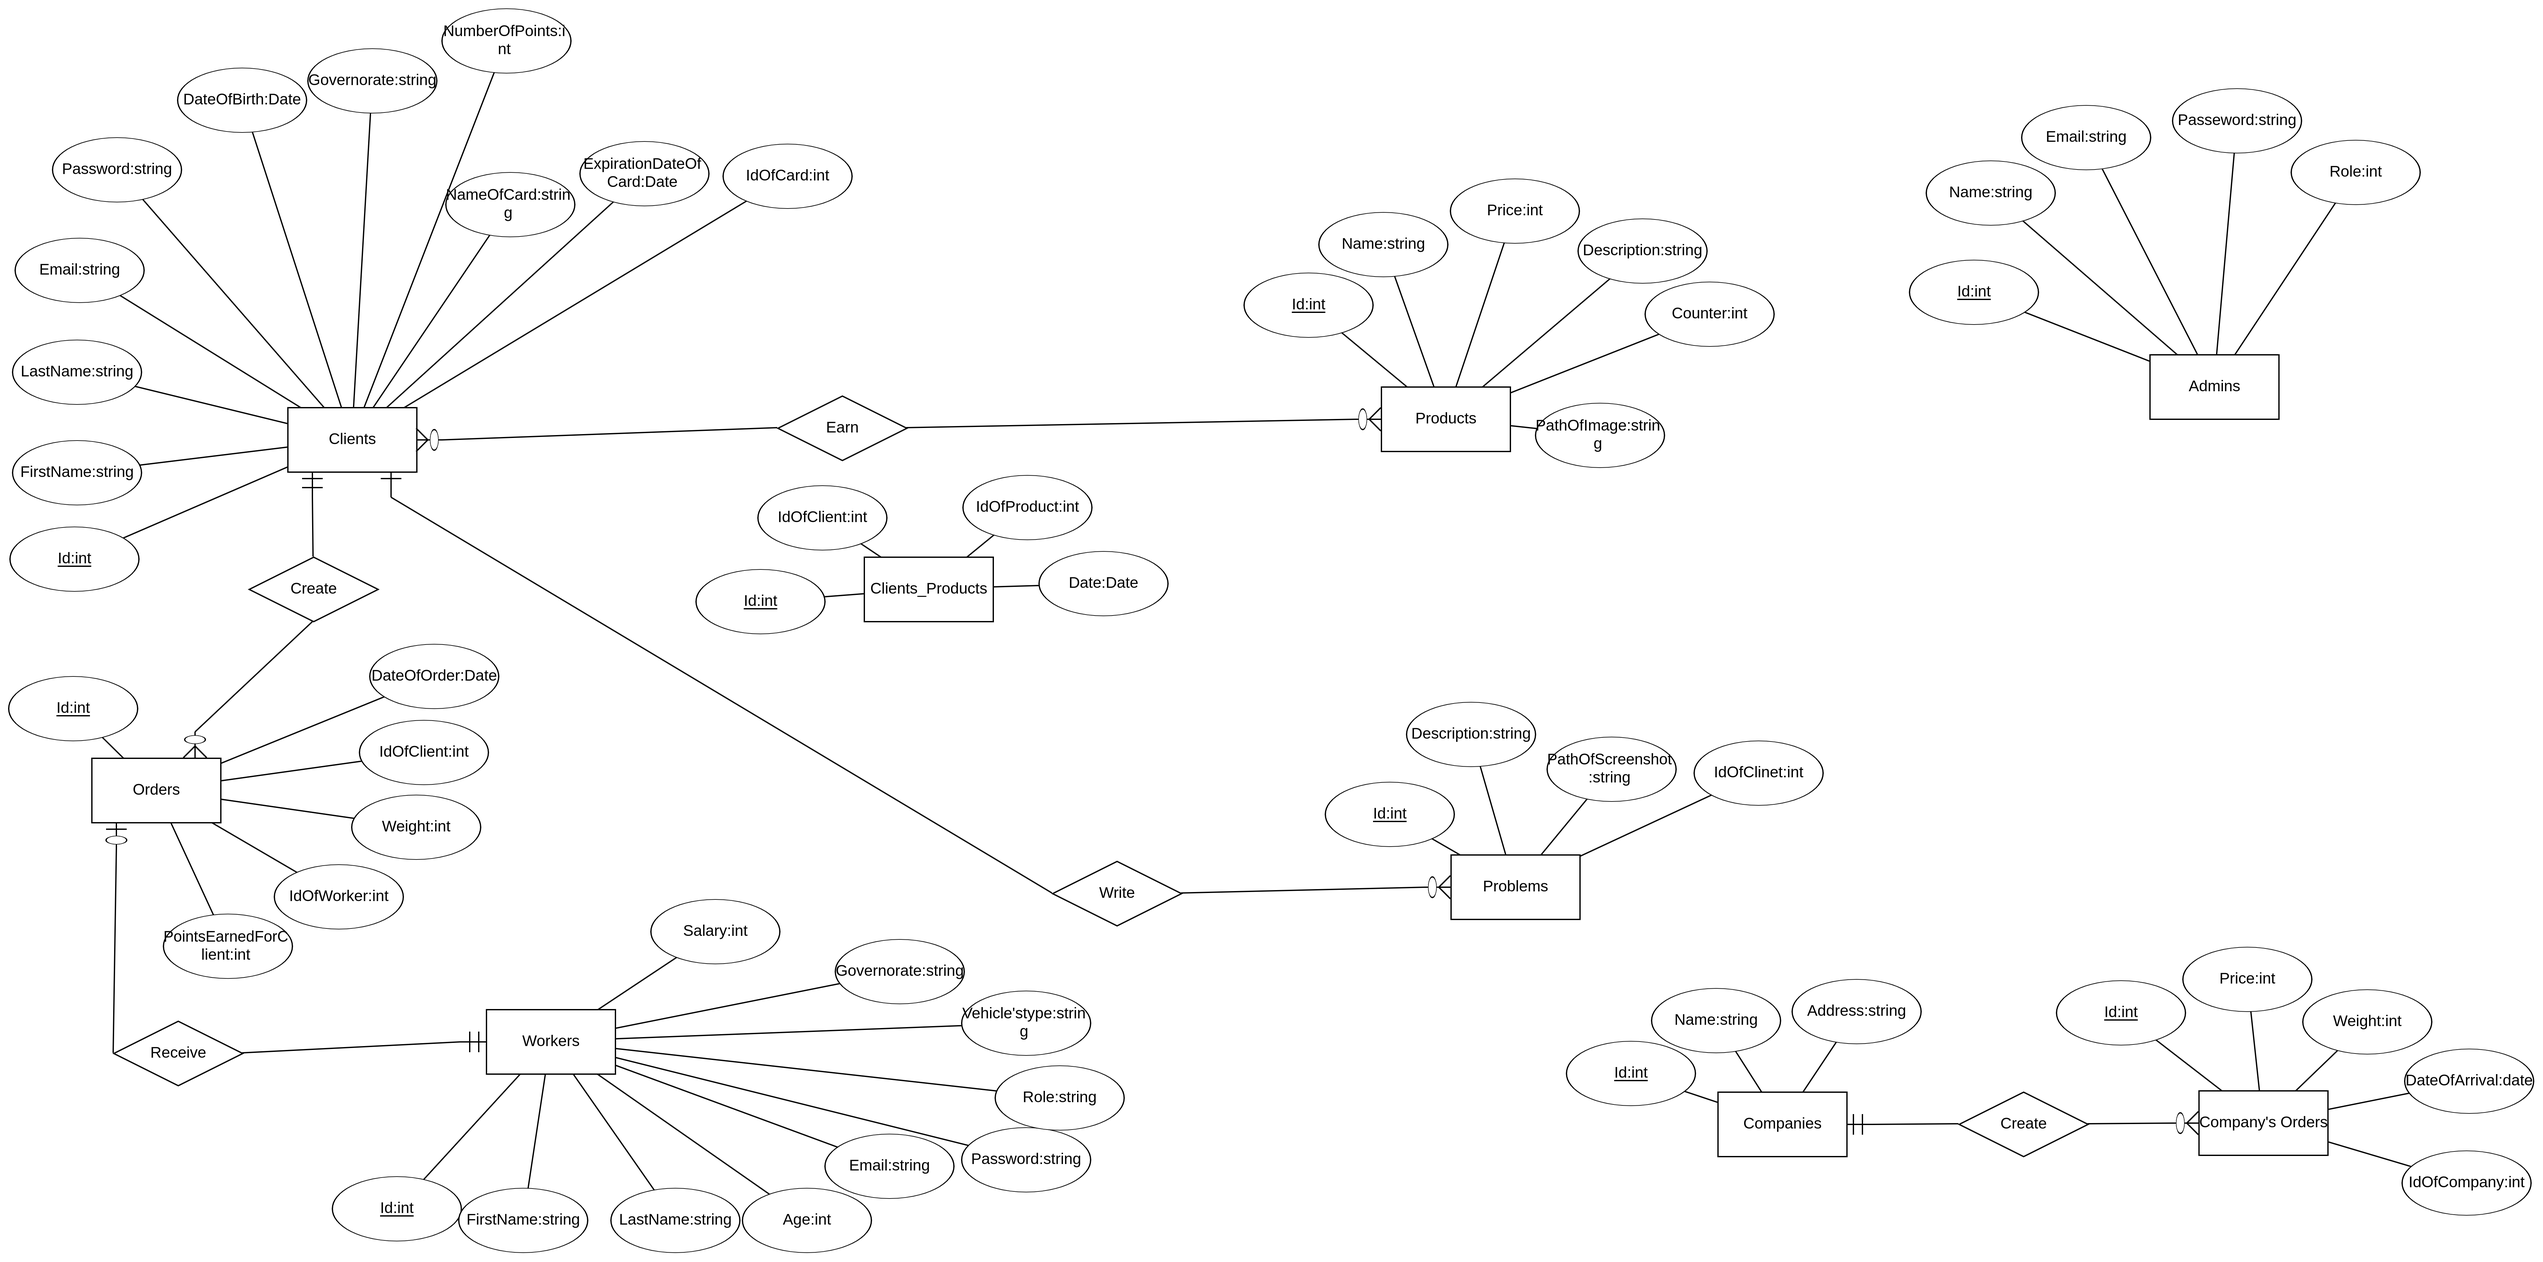
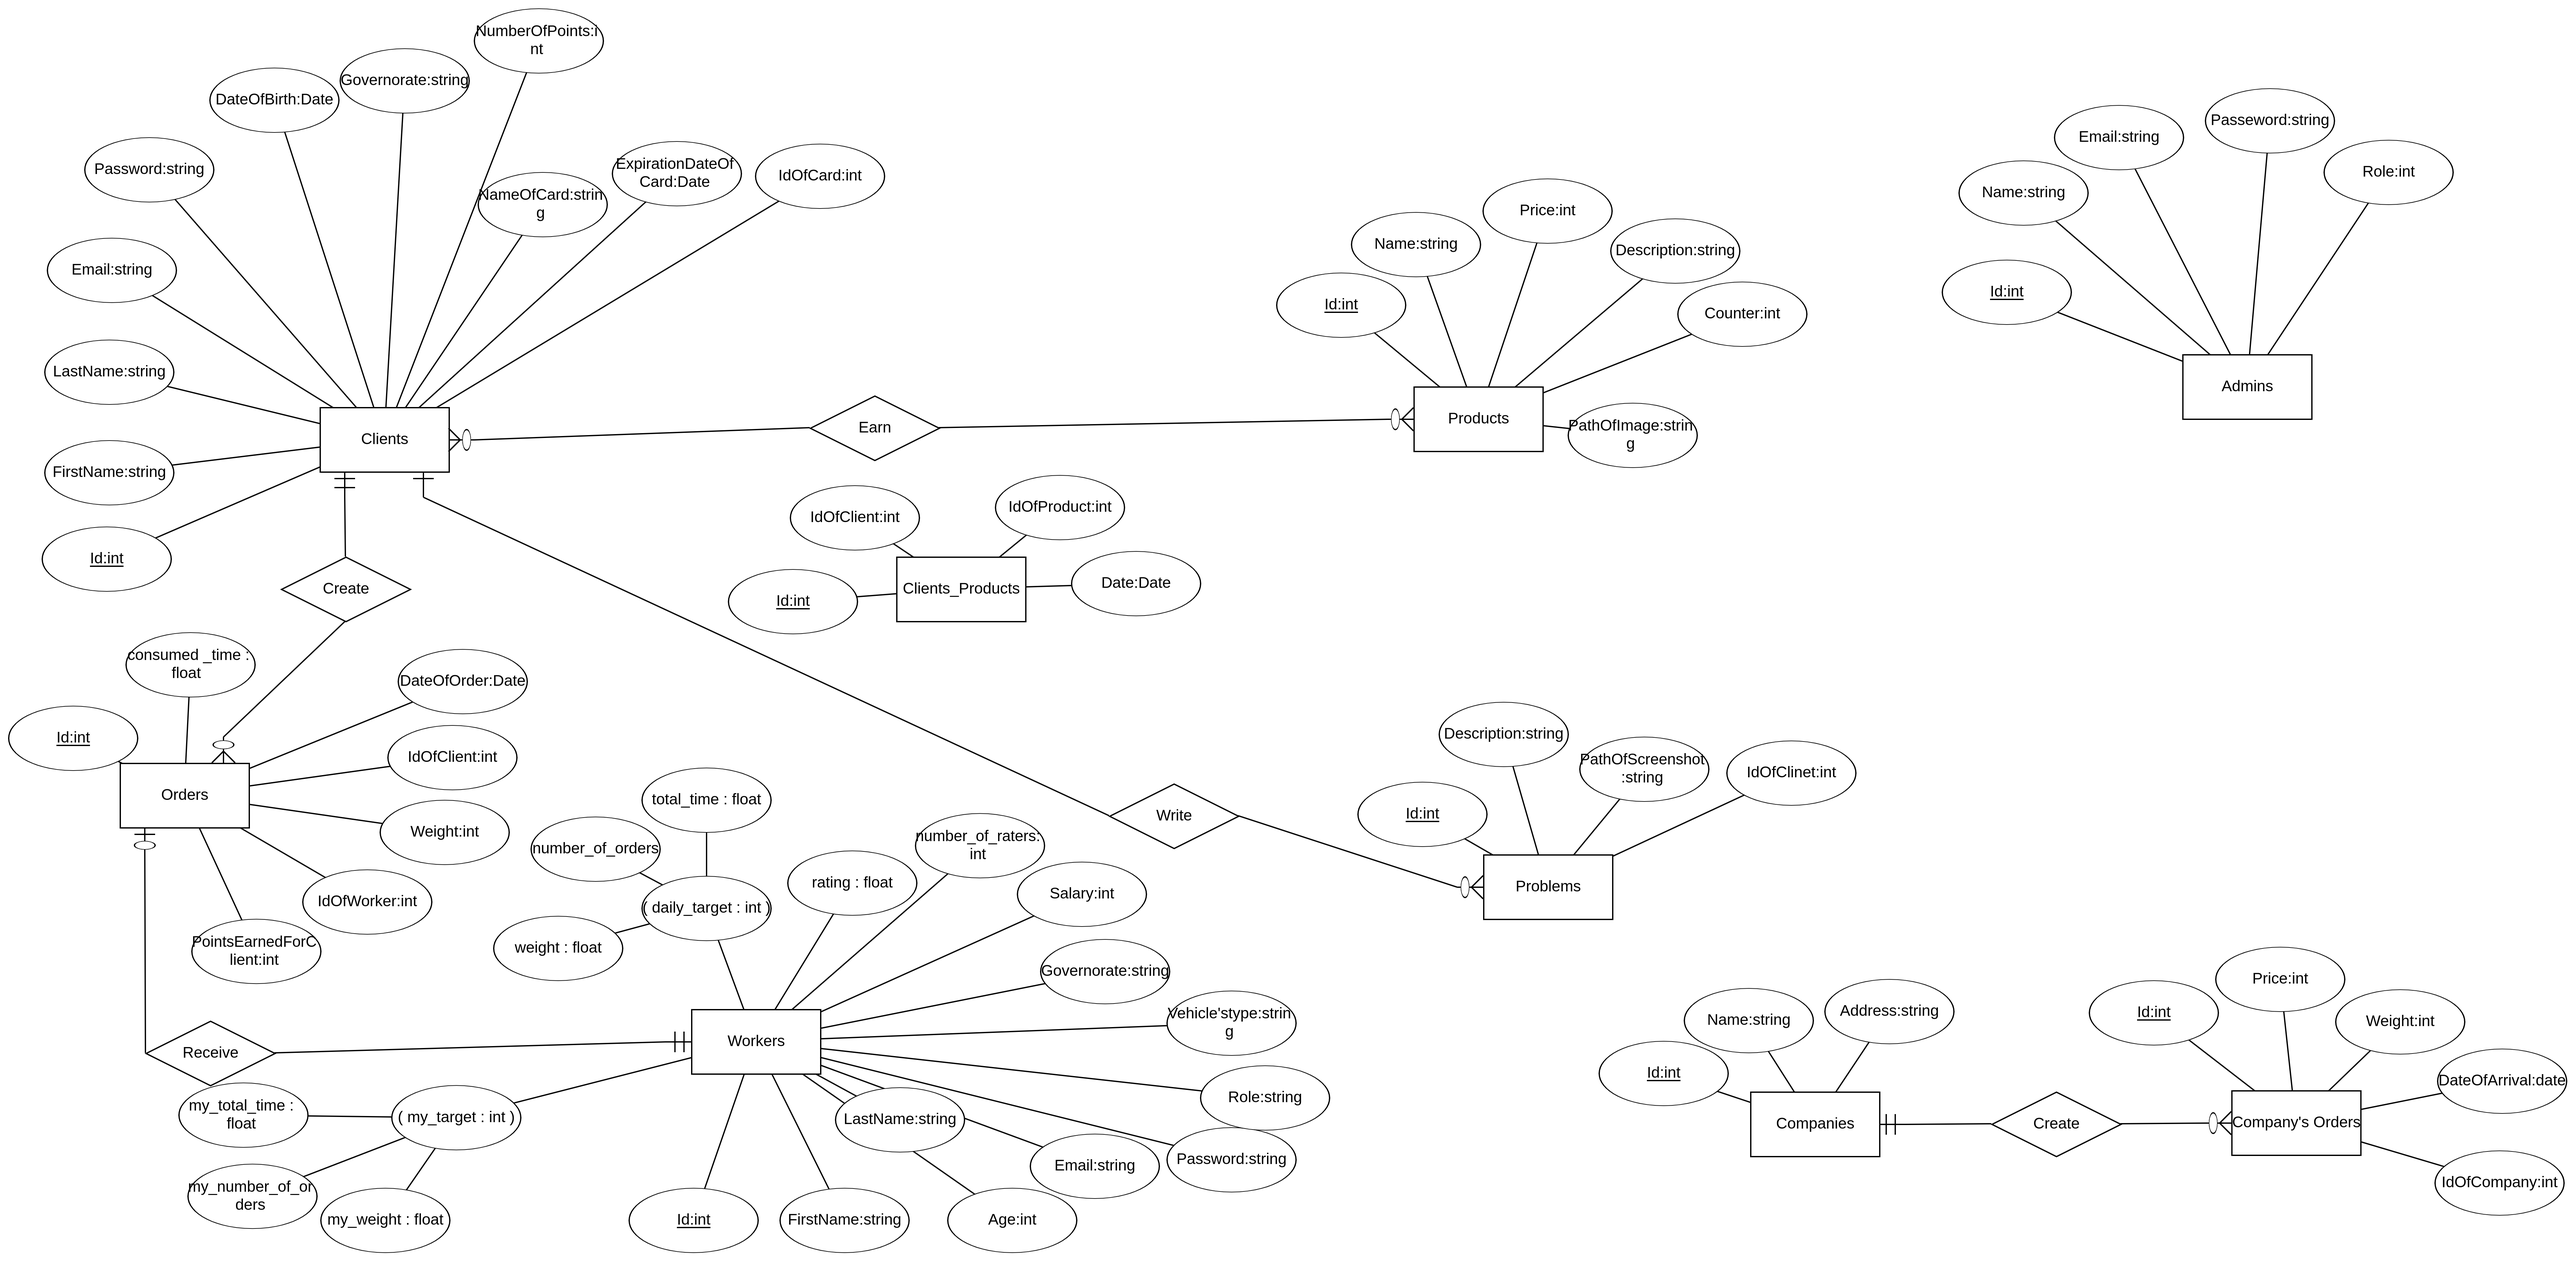
add daily target

diff --git a/app/Http/Controllers/CompanyController.php b/app/Http/Controllers/CompanyController.php
@@ -8,79 +8,51 @@ use Illuminate\Http\Response;
 
 class CompanyController extends Controller
 {
-    /**
-     * Display a listing of the resource.
-     *
-     * @return Response
-     */
-    public function index()
+    public function get_my_daily_target($id)
     {
-        //
+        /*
+         * take worker's id
+         * return myTime, myWeight and myNumberOfOrders as json
+         * note : myTime, myWeight and myNumberOfOrders are called the target of worker.
+         */
     }
 
-    /**
-     * Show the form for creating a new resource.
-     *
-     * @return Response
-     */
-    public function create()
-    {
-        //
-    }
+   public function set_remaining_daily_target_by_admin($id)
+   {
+       /*
+        * the purpose of this method is "updating the remaining daily target for the worker after each order"
+        * 1- take worker's id
+        * 2- call get_my_daily_target($id) to get the target of worker
+        * 3- call calculate_remaining_daily_target_by_admin(id, time, weight, numberOfOrders) to change on the remaining daily target for the worker
+        * 4- return the new remaining target as json
+        * Note : this method we call on it in WorkerController inside set_weight()
+        * Note : totalTime, numberOfOrders and weight are put by admin.
+        */
+   }
 
-    /**
-     * Store a newly created resource in storage.
-     *
-     * @param Request $request
-     * @return Response
-     */
-    public function store(Request $request): Response
-    {
-        //
-    }
+   public function calculate_remaining_daily_target_by_admin($id, $time, $weight, $numberOfOrders): array
+   {
+      /*
+       * you should take the target of worker
+       * admin sets the new remaining daily target of worker depending on the target of worker.
+       * example: if a worker doesn't work then
+       *    the initial values are 8 hours for time, 8 times for orders and one kilo for weight.
+       * create your equation to calculate the new  remaining target depends on the target of worker.
+       * Notes :
+       * 1- time should be at least 6 hours to 8 hours
+       * 2- orders should be at least 6 times to 8 times
+       * 3- weight should be at least 700 g to one kilo
+       * 4- first priority for time then weight then number_of_orders
+       * 5- your equation must be at range
+       * after that you should update the new values of remaining target (total_time, number_of_orders, weight)
+       * call update_daily_target_by_admin(id, time, weight, numberOfOrders)
+       * return array contains new time, weight and numberOfOrders.
+       */
+       return [];
+   }
 
-    /**
-     * Display the specified resource.
-     *
-     * @param Company $company
-     * @return Response
-     */
-    public function show(Company $company): Response
-    {
-        //
-    }
-
-    /**
-     * Show the form for editing the specified resource.
-     *
-     * @param Company $company
-     * @return Response
-     */
-    public function edit(Company $company): Response
-    {
-        //
-    }
-
-    /**
-     * Update the specified resource in storage.
-     *
-     * @param Request $request
-     * @param Company $company
-     * @return Response
-     */
-    public function update(Request $request, Company $company): Response
-    {
-        //
-    }
-
-    /**
-     * Remove the specified resource from storage.
-     *
-     * @param Company $company
-     * @return Response
-     */
-    public function destroy(Company $company): Response
-    {
-        //
-    }
+   public function update_remaining_daily_target_by_admin($id, $time, $weight, $numberOfOrders)
+   {
+        //you should update the new values of remaining target(total_time, number_of_orders, weight)
+   }
 }

diff --git a/app/Http/Controllers/WorkerController.php b/app/Http/Controllers/WorkerController.php
@@ -6,6 +6,7 @@ use App\Http\Requests\WeightRequest;
 use App\Http\Resources\OrderResource;
 use App\Http\Resources\WorkerResource;
 use App\Models\Order;
+use App\Models\User;
 use App\Models\Worker;
 use Illuminate\Http\JsonResponse;
 use App\Http\Requests\WorkerRequest;
@@ -13,6 +14,12 @@ use App\Http\Requests\WorkerRequest;
 
 class WorkerController extends Controller
 {
+    private $companyController;
+
+    public function __construct(CompanyController $companyController)
+    {
+        $this->companyController = $companyController;
+    }
     /**
      * Display a listing of the resource.
      *
@@ -159,26 +166,58 @@ class WorkerController extends Controller
         ], 201);
     }
 
-    public function set_weight(WeightRequest $request): JsonResponse
+    public function set_weight(WeightRequest $request, $id): JsonResponse
     {
         /*
-         * insert row in orders'table
+         * insert row in order's table
          * id of client by algorithm
          * weight by request
          * id of worker by auth
          * points by equation
          * date of order by the current date
+         * consumed_time by algorithm per minutes
          */
         $data = $request->validated();
         $data['order_date'] = date("Y-m-d h-i-s");
         $data['point_earned'] = (int) ($data['weight'] / 3);
         $data['user_id'] = 3;
-        $data['worker_id'] = 2;
+        $data['worker_id'] = $id;
+        $data['consumed_time'] = 30;
         $order = Order::create($data);
+
+        //  change in the target of worker (my_total_time, my_number_of_orders, my_weight)
+        $this->update_daily_target_of_worker($order->worker_id, $order->consumed_time, $order->weight);
+
+        // change in daily target from admin to worker (total_time, number_of_orders, weight)
+        //$this->update_daily_target_of_admin($this->companyController, $order->worker_id);
+
+        // add the new points to user's points
+        $this->update_points_of_user($order->user_id, $order->point_earned);
 
         return response()->json([
             'order' => new OrderResource($order),
         ], 201);
+    }
+
+    public function update_daily_target_of_worker($id, $consumed_time, $weight)
+    {
+        $worker = Worker::find($id);
+        $worker->my_total_time += $consumed_time;
+        $worker->my_number_of_orders += 1;
+        $worker->my_weight += $weight;
+        $worker->save();
+    }
+
+    public function update_points_of_user($id, $pointEarned)
+    {
+        $user = User::find($id);
+        $user->number_of_points += $pointEarned;
+        $user->save();
+    }
+
+    public function update_daily_target_of_admin(CompanyController $companyController, $id)
+    {
+        $companyController->set_remaining_daily_target_by_admin($id);
     }
 }
 

diff --git a/routes/api.php b/routes/api.php
@@ -1,4 +1,6 @@
 <?php
+
+use App\Http\Controllers\CompanyController;
 use Illuminate\Support\Facades\Route;
 use Illuminate\Http\Request;
 use App\Http\Controllers\ProductController;
@@ -72,7 +74,7 @@ use App\Http\Controllers\ProblemController;
     } );
 
     //3#### weight ####
-    Route::post('submit-weight', [WorkerController::class, 'set_weight']);
+    Route::post('submit-weight/{id}', [WorkerController::class, 'set_weight']);
 
 // --------------------------Company--------------------------------------
 
@@ -105,9 +107,9 @@ use App\Http\Controllers\ProblemController;
 
 
     //3#### Targets ####
-    Route::get('daily-target', function () {
-        return "hello";
-    });
+    Route::get('my-daily-target/{id}', [CompanyController::class, 'get_my_daily_target']);
+
+    Route::get('remaining-daily-target/{id}', [CompanyController::class, 'set_remaining_daily_target_by_admin']);
 
     Route::get('weekly-target', function () {
         return "hello";

diff --git a/database/migrations/2021_01_26_125305_create_workers_table.php b/database/migrations/2021_01_26_125305_create_workers_table.php
@@ -26,6 +26,12 @@ class CreateWorkersTable extends Migration
             $table->string('government');
             $table->float("rating")->nullable();
             $table->integer("raters")->nullable();
+            $table->float("total_time")->nullable();
+            $table->float("my_total_time")->nullable();
+            $table->float("weight")->nullable();
+            $table->float("my_weight")->nullable();
+            $table->integer("number_of_orders")->nullable();
+            $table->integer("my_number_of_orders")->nullable();
             $table->timestamps();
         });
     }

diff --git a/database/migrations/2021_01_26_131336_create_orders_table.php b/database/migrations/2021_01_26_131336_create_orders_table.php
@@ -18,6 +18,7 @@ class CreateOrdersTable extends Migration
             $table->timestamp('order_date');
             $table->bigInteger('weight');
             $table->bigInteger('point_earned');
+            $table->float('consumed_time')->nullable();
             $table->foreignId('user_id')->constrained();
             $table->foreignId('worker_id')->constrained();
             $table->timestamps();

diff --git a/app/Http/Controllers/UserController.php b/app/Http/Controllers/UserController.php
@@ -61,9 +61,7 @@ class UserController extends Controller
      */
     public function update(UserRequest $request, $id): JsonResponse
     {
-        //validate worker data
         $data = $request->validated();
-
         $row = User::find($id);
 
         // updating data
